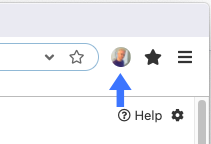
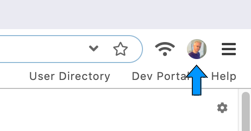
GitBook: [master] one page and one asset modified

diff --git a/joining-the-social-network.md b/joining-the-social-network.md
@@ -12,7 +12,7 @@ In this guide, we're going to personalize your profile drive, find some other us
 
 During Beaker's setup, you filled out a name, picture, and bio for your profile. You can visit your profile drive by clicking your picture at the top right of the UI.
 
-TODO picture
+![](.gitbook/assets/profile-button.png)
 
 You will find your profile drive is very plain. That's because we want you to build it! \(Frankly it was a cost-cutting measure but don't tell anyone.\) [Open the editor](beginner/editor.md) to see the source code:
 
